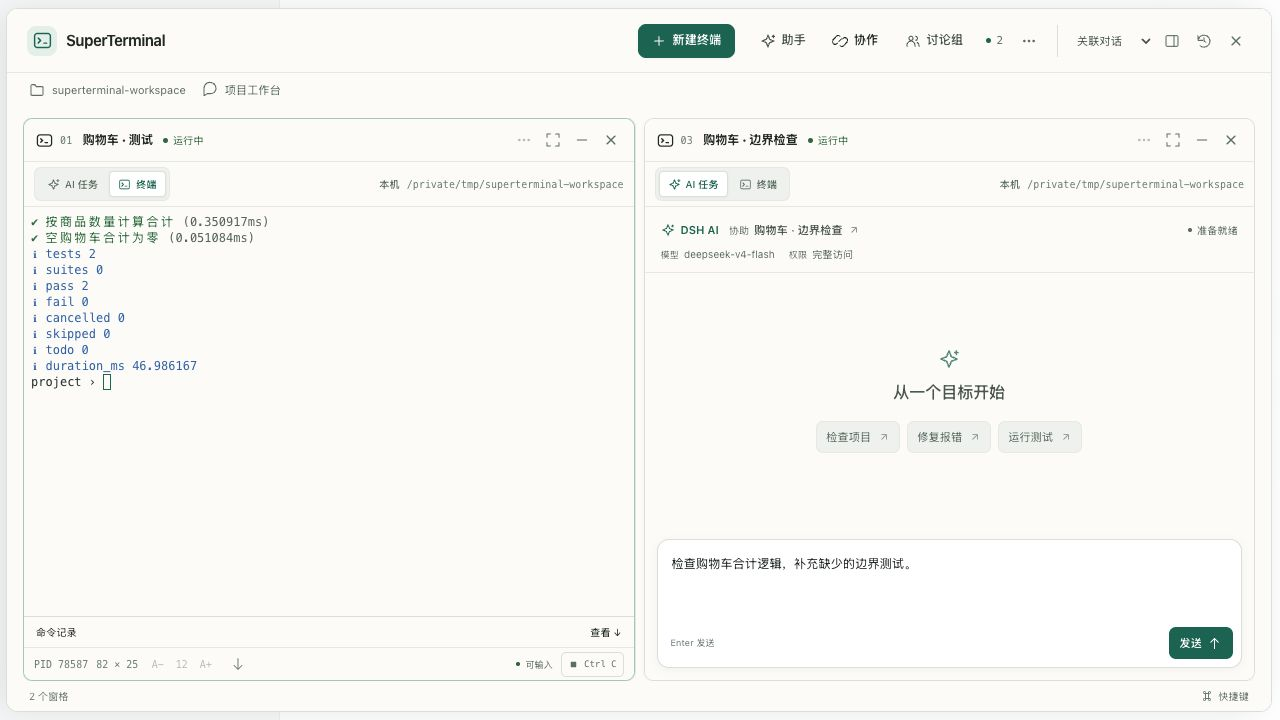
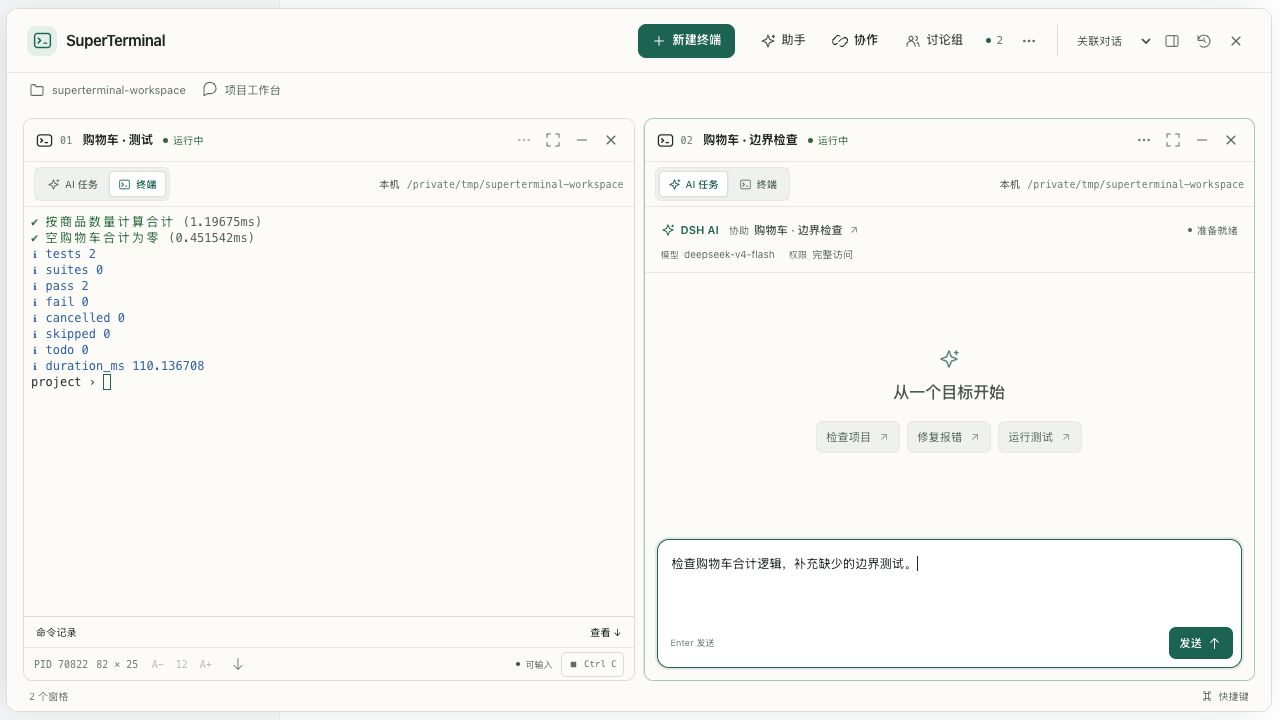
Publish alpha.15 guide and current product screenshots

Changed region(s): [[0.5, 0.7333, 0.9688, 0.9472], [0.1562, 0.3056, 0.2188, 0.3361], [0.0938, 0.4889, 0.1562, 0.5194]]

diff --git a/site/index.html b/site/index.html
@@ -36,7 +36,7 @@
   <main id="main">
     <section class="hero section-shell" aria-labelledby="hero-title">
       <div class="hero-copy">
-        <a class="release-pill" href="https://github.com/Harzva/dsh-superterminal/releases/tag/v0.1.0-alpha.14"><span class="release-dot" aria-hidden="true"></span><span>alpha.14</span><span class="pill-divider"></span><span data-en="Clearer controls. More room for your task.">常用操作，就在手边</span><span aria-hidden="true">↗</span></a>
+        <a class="release-pill" href="https://github.com/Harzva/dsh-superterminal/releases/tag/v0.1.0-alpha.15"><span class="release-dot" aria-hidden="true"></span><span>alpha.15</span><span class="pill-divider"></span><span data-en="Switch terminals. Keep your place.">切换终端，接着工作</span><span aria-hidden="true">↗</span></a>
         <h1 id="hero-title"><span data-en="Say it.">说出目标。</span><br><span class="hero-highlight" data-en="Get it done.">让终端去完成。</span></h1>
         <p class="hero-description" data-en="Your conversation on one side. Real work on the other. Ask DSH to read files, edit code, and run commands—right in your terminal.">一边对话，一边把事情做完。用自然语言，让 DSH 读取文件、修改代码、执行命令。</p>
         <div class="hero-actions"><a class="button button-dark" href="#install"><span data-en="Get SuperTerminal">开始使用</span><span aria-hidden="true">↗</span></a><a class="button button-plain" href="https://github.com/Harzva/dsh-superterminal">GitHub <span aria-hidden="true">↗</span></a></div>
@@ -52,16 +52,16 @@
           <button type="button" role="tab" id="tour-tab-agents" data-tour="agents" aria-controls="tour-panel-agents" aria-selected="false" tabindex="-1"><span data-en="Agents">智能体目录</span></button>
         </div>
         <div class="tour-panel" role="tabpanel" id="tour-panel-workspace" data-tour-panel aria-labelledby="tour-tab-workspace" tabindex="0">
-          <figure class="product-figure hero-figure"><button class="screenshot-button" type="button" data-screenshot aria-label="查看自由分屏完整截图" data-aria-en="View the full workspace screenshot"><img src="./assets/screenshots/light-workspace.jpg" width="1280" height="720" alt="DSH SuperTerminal alpha.14 浅色工作台" data-alt-en="DSH SuperTerminal alpha.14 light workspace" fetchpriority="high"><span class="image-expand" aria-hidden="true">⤢</span></button><figcaption><strong data-en="One toolbar. Your task in focus.">常用操作集中，当前任务清楚。</strong><span data-en="alpha.14 · Focused workspace">alpha.14 · 精简工作台</span></figcaption></figure>
+          <figure class="product-figure hero-figure"><button class="screenshot-button" type="button" data-screenshot aria-label="查看自由分屏完整截图" data-aria-en="View the full workspace screenshot"><img src="./assets/screenshots/light-workspace.jpg" width="1280" height="720" alt="DSH SuperTerminal alpha.15 浅色工作台" data-alt-en="DSH SuperTerminal alpha.15 light workspace" fetchpriority="high"><span class="image-expand" aria-hidden="true">⤢</span></button><figcaption><strong data-en="Switch tasks without losing your place.">切换任务，保留当前进度。</strong><span data-en="alpha.15 · Focused workspace">alpha.15 · 精简工作台</span></figcaption></figure>
         </div>
         <div class="tour-panel" role="tabpanel" id="tour-panel-ai" data-tour-panel aria-labelledby="tour-tab-ai" tabindex="0" hidden>
           <figure class="product-figure hero-figure"><button class="screenshot-button" type="button" data-screenshot aria-label="查看AI 任务完整截图" data-aria-en="View the full ai tasks screenshot"><img src="./assets/screenshots/ai-task.jpg" width="1280" height="1000" alt="alpha.8 真实 AI 任务：自然语言修复购物车并通过测试" data-alt-en="Actual alpha.8 AI task: a natural-language cart fix with passing tests" loading="lazy"><span class="image-expand" aria-hidden="true">⤢</span></button><figcaption><strong data-en="Start with your goal.">把任务说出来。</strong><span data-en="alpha.8 · Actual AI task">alpha.8 · 真实 AI 任务</span></figcaption></figure>
         </div>
         <div class="tour-panel" role="tabpanel" id="tour-panel-side" data-tour-panel aria-labelledby="tour-tab-side" tabindex="0" hidden>
-          <figure class="product-figure hero-figure"><button class="screenshot-button" type="button" data-screenshot aria-label="查看Side Terminal完整截图" data-aria-en="View the full side terminal screenshot"><img src="./assets/screenshots/light-side-terminal.jpg" width="1280" height="720" alt="DSH SuperTerminal alpha.14 浅色 Side Terminal" data-alt-en="DSH SuperTerminal alpha.14 light Side Terminal" loading="lazy"><span class="image-expand" aria-hidden="true">⤢</span></button><figcaption><strong data-en="Right beside your conversation.">和当前对话，刚好并肩。</strong><span data-en="alpha.14 · Light Side Terminal">alpha.14 · 浅色 Side Terminal</span></figcaption></figure>
+          <figure class="product-figure hero-figure"><button class="screenshot-button" type="button" data-screenshot aria-label="查看Side Terminal完整截图" data-aria-en="View the full side terminal screenshot"><img src="./assets/screenshots/light-side-terminal.jpg" width="1280" height="720" alt="DSH SuperTerminal alpha.15 浅色 Side Terminal" data-alt-en="DSH SuperTerminal alpha.15 light Side Terminal" loading="lazy"><span class="image-expand" aria-hidden="true">⤢</span></button><figcaption><strong data-en="Right beside your conversation.">和当前对话，刚好并肩。</strong><span data-en="alpha.15 · Light Side Terminal">alpha.15 · 浅色 Side Terminal</span></figcaption></figure>
         </div>
         <div class="tour-panel" role="tabpanel" id="tour-panel-agents" data-tour-panel aria-labelledby="tour-tab-agents" tabindex="0" hidden>
-          <figure class="product-figure hero-figure"><button class="screenshot-button" type="button" data-screenshot aria-label="查看智能体目录完整截图" data-aria-en="View the full agents screenshot"><img src="./assets/screenshots/agents.jpg" width="1280" height="1000" alt="alpha.8 实际智能体目录：本机 CLI、版本与使用状态" data-alt-en="Actual alpha.8 agent library: local CLIs, versions and readiness evidence" loading="lazy"><span class="image-expand" aria-hidden="true">⤢</span></button><figcaption><strong data-en="Your familiar agents, within reach.">熟悉的搭档，随时就位。</strong><span data-en="alpha.8 · Actual agent library">alpha.8 · 实际智能体目录</span></figcaption></figure>
+          <figure class="product-figure hero-figure"><button class="screenshot-button" type="button" data-screenshot aria-label="查看智能体目录完整截图" data-aria-en="View the full agents screenshot"><img src="./assets/screenshots/agents.jpg" width="1280" height="720" alt="alpha.15 实际智能体目录：本机 CLI、版本与使用状态" data-alt-en="Actual alpha.15 agent library: local CLIs, versions and readiness evidence" loading="lazy"><span class="image-expand" aria-hidden="true">⤢</span></button><figcaption><strong data-en="Your familiar agents, within reach.">熟悉的搭档，随时就位。</strong><span data-en="alpha.15 · Actual agent library">alpha.15 · 实际智能体目录</span></figcaption></figure>
         </div>
         <button class="tour-footnote" type="button" data-open-active-screenshot><span data-en="Version shown in each caption · Click to inspect · ← → to browse">版本见图注 · 点击查看细节 · ← → 切换</span><span aria-hidden="true">↗</span></button>
       </div>
@@ -101,8 +101,8 @@
 
     <section class="side-section" aria-labelledby="side-title">
       <div class="section-shell side-grid">
-        <div class="feature-copy"><p class="eyebrow">SIDE TERMINAL</p><h2 id="side-title"><span data-en="Right beside">就在对话旁。</span><br><span data-en="your conversation.">刚好接得上。</span></h2><p data-en="Keep a terminal in DSH’s right sidebar. Bind it to the conversation you are working on, or keep an independent workspace open as you move between conversations.">把终端放在 DSH 右侧栏。可以关联当前对话，也可以独立运行，切换对话时继续保留自己的工作区。</p><ul class="quiet-list"><li data-en="Bound to a conversation, or independent">关联对话，或独立工作</li><li data-en="Expand when you need more room">需要空间时，展开工作区</li><li data-en="Keep each terminal’s context and draft together">上下文与草稿，跟随各自终端</li></ul><a class="text-link" href="#install"><span data-en="Make room for your next task">为下一件事，留个位置</span><span aria-hidden="true">↗</span></a></div>
-        <figure class="product-figure side-figure"><button class="screenshot-button" type="button" data-screenshot aria-label="放大 Side Terminal 截图" data-aria-en="Enlarge the Side Terminal screenshot"><img src="./assets/screenshots/light-side-terminal.jpg" width="1280" height="720" loading="lazy" alt="alpha.14 浅色 Side Terminal，与当前对话并肩" data-alt-en="alpha.14 light Side Terminal, beside the current conversation"><span class="image-expand" aria-hidden="true">⤢</span></button><figcaption><span data-en="Your conversation and your work, together.">让对话和工作，待在一起。</span><span class="caption-id">alpha.14 / SIDE TERMINAL</span></figcaption></figure>
+        <div class="feature-copy"><p class="eyebrow">SIDE TERMINAL</p><h2 id="side-title"><span data-en="Right beside">就在对话旁。</span><br><span data-en="your conversation.">刚好接得上。</span></h2><p data-en="Keep a terminal in DSH’s right sidebar. Bind it to the conversation you are working on, or keep an independent workspace open as you move between conversations.">把终端放在 DSH 右侧栏。可以关联当前对话，也可以独立运行，切换对话时继续保留自己的工作区。</p><ul class="quiet-list"><li data-en="Bound to a conversation, or independent">关联对话，或独立工作</li><li data-en="Switch terminals while staying expanded">放大查看，也能直接切换终端</li><li data-en="Keep each terminal’s context and draft together">上下文与草稿，跟随各自终端</li></ul><a class="text-link" href="#install"><span data-en="Make room for your next task">为下一件事，留个位置</span><span aria-hidden="true">↗</span></a></div>
+        <figure class="product-figure side-figure"><button class="screenshot-button" type="button" data-screenshot aria-label="放大 Side Terminal 截图" data-aria-en="Enlarge the Side Terminal screenshot"><img src="./assets/screenshots/light-side-terminal.jpg" width="1280" height="720" loading="lazy" alt="alpha.15 浅色 Side Terminal，与当前对话并肩" data-alt-en="alpha.15 light Side Terminal, beside the current conversation"><span class="image-expand" aria-hidden="true">⤢</span></button><figcaption><span data-en="Your conversation and your work, together.">让对话和工作，待在一起。</span><span class="caption-id">alpha.15 / SIDE TERMINAL</span></figcaption></figure>
       </div>
     </section>
 
@@ -113,17 +113,17 @@
     </section>
 
     <section class="agents-section section-shell" aria-labelledby="agents-title">
-      <figure class="product-figure agents-figure"><button class="screenshot-button" type="button" data-screenshot aria-label="放大智能体管理界面截图" data-aria-en="Enlarge the agent library screenshot"><img src="./assets/screenshots/agents.jpg" width="1280" height="1000" loading="lazy" alt="alpha.8 本地智能体 CLI 目录、版本与可用性信息" data-alt-en="The alpha.8 local agent CLI library, versions, and readiness information"><span class="image-expand" aria-hidden="true">⤢</span></button><figcaption><span data-en="A place for the agents you use.">你常用的智能体，也有自己的位置。</span><span class="caption-id">alpha.8 / AGENTS</span></figcaption></figure>
-      <div class="feature-copy"><p class="eyebrow" data-en="FAMILIAR AGENTS. ONE WORKSPACE.">熟悉的智能体，同一个工作区。</p><h2 id="agents-title"><span data-en="Everyone has">各用所长。</span><br><span data-en="a place here.">配合得刚刚好。</span></h2><p data-en="Find your installed agent CLIs, inspect their versions and available readiness evidence, and open them where you work.">查看本地已安装的智能体 CLI、版本与可获取的可用性信息，直接在工作区里打开。</p><div class="agent-names" aria-label="智能体示例" data-aria-en="Example agents"><span>Codex</span><span>Claude Code</span><span>Kimi Code</span><span>Pi</span></div><p class="fine-print" data-en="Each CLI uses its own account and model setup. Managed background handoffs currently support Pi and Codex; quota is shown as unknown when it cannot be verified.">各 CLI 使用自己的账号与模型配置。目前受管后台交接支持 Pi、Codex；无法核实的额度会显示为未知。</p></div>
+      <figure class="product-figure agents-figure"><button class="screenshot-button" type="button" data-screenshot aria-label="放大智能体管理界面截图" data-aria-en="Enlarge the agent library screenshot"><img src="./assets/screenshots/agents.jpg" width="1280" height="720" loading="lazy" alt="alpha.15 本地智能体 CLI 目录、版本与可用性信息" data-alt-en="The alpha.15 local agent CLI library, versions, and readiness information"><span class="image-expand" aria-hidden="true">⤢</span></button><figcaption><span data-en="A place for the agents you use.">你常用的智能体，也有自己的位置。</span><span class="caption-id">alpha.15 / AGENTS</span></figcaption></figure>
+      <div class="feature-copy"><p class="eyebrow" data-en="FAMILIAR AGENTS. ONE WORKSPACE.">熟悉的智能体，同一个工作区。</p><h2 id="agents-title"><span data-en="Everyone has">各用所长。</span><br><span data-en="a place here.">配合得刚刚好。</span></h2><p data-en="Filter installed agent CLIs, search by name or command, and inspect versions and readiness evidence. If detection fails, keep the last results and check time, then retry before launching.">筛选已安装的智能体 CLI，按名称或命令搜索，查看版本与状态依据。检测失败时保留上次结果和检查时间，重试成功后再启动。</p><div class="agent-names" aria-label="智能体示例" data-aria-en="Example agents"><span>Codex</span><span>Claude Code</span><span>Kimi Code</span><span>Pi</span></div><p class="fine-print" data-en="Each CLI uses its own account and model setup. Managed background handoffs currently support Pi and Codex; quota is shown as unknown when it cannot be verified.">各 CLI 使用自己的账号与模型配置。目前受管后台交接支持 Pi、Codex；无法核实的额度会显示为未知。</p></div>
     </section>
 
     <section class="install-section section-shell" id="install" aria-labelledby="install-title">
       <div class="install-card"><div class="install-heading"><div><p class="eyebrow" data-en="READY WHEN YOU ARE.">下一件事，从这里开始。</p><h2 id="install-title"><span data-en="A smarter place">给你的 DSH，</span><br><span data-en="to get things done.">一只会干活的终端。</span></h2></div><img class="install-cat" src="./assets/logo.svg" width="128" height="128" alt="Mimi，SuperTerminal 的薄荷绿终端小猫" data-alt-en="Mimi, SuperTerminal’s mint-green terminal cat"></div>
-        <div class="install-requirements"><span>macOS</span><span>Node.js 24+</span><span>DSH 0.1.1-rc.2</span><span>0.1.0-alpha.14</span></div>
-        <div class="install-command"><div class="command-toolbar"><span data-en="Run in your terminal">在终端中运行</span><button id="copy-install" type="button"><span aria-hidden="true">⧉</span><span data-en="Copy command">复制命令</span></button></div><pre tabindex="0" aria-label="安装命令" data-aria-en="Installation command"><code id="install-code">dsh plugin --profile web add https://github.com/Harzva/dsh-superterminal/releases/download/v0.1.0-alpha.14/harzva-dsh-terminal-0.1.0-alpha.14.tgz</code></pre></div>
+        <div class="install-requirements"><span>macOS</span><span>Node.js 24+</span><span>DSH 0.1.1-rc.2</span><span>0.1.0-alpha.15</span></div>
+        <div class="install-command"><div class="command-toolbar"><span data-en="Run in your terminal">在终端中运行</span><button id="copy-install" type="button"><span aria-hidden="true">⧉</span><span data-en="Copy command">复制命令</span></button></div><pre tabindex="0" aria-label="安装命令" data-aria-en="Installation command"><code id="install-code">dsh plugin --profile web add https://github.com/Harzva/dsh-superterminal/releases/download/v0.1.0-alpha.15/harzva-dsh-terminal-0.1.0-alpha.15.tgz</code></pre></div>
         <p id="copy-feedback" class="copy-feedback" role="status" aria-live="polite"></p>
         <p class="install-note" data-en="After installation, restart the DSH profile you installed into (web for this command). Use the Terminal button in the input bar or enter /terminal to open the right sidebar. Configure a working DSH model before running AI tasks.">安装完成后，重启所选 DSH 配置（此命令为 web）。点击输入栏中的“终端”，或输入 /terminal 打开右侧栏。执行 AI 任务前，请先配置可用的 DSH 模型。</p>
-        <div class="install-links"><a href="https://github.com/Harzva/dsh-superterminal/blob/main/docs/guide.zh-CN.md"><span data-en="Read the guide">阅读使用指南</span><span aria-hidden="true">↗</span></a><a href="https://github.com/Harzva/dsh-superterminal/releases/tag/v0.1.0-alpha.14"><span data-en="Release notes">版本更新</span><span aria-hidden="true">↗</span></a></div>
+        <div class="install-links"><a href="https://github.com/Harzva/dsh-superterminal/blob/main/docs/guide.zh-CN.md"><span data-en="Read the guide">阅读使用指南</span><span aria-hidden="true">↗</span></a><a href="https://github.com/Harzva/dsh-superterminal/releases/tag/v0.1.0-alpha.15"><span data-en="Release notes">版本更新</span><span aria-hidden="true">↗</span></a></div>
       </div>
     </section>
 
@@ -132,7 +132,7 @@
       <details><summary><span data-en="Can Side Terminal work independently?">Side Terminal 可以独立于对话吗？</span><span aria-hidden="true">+</span></summary><p data-en="Yes. Bind it to a conversation, or use an independent workspace session that stays in place when you switch conversations. Existing terminals are not migrated between these two scopes.">可以。你可以关联当前对话，也可以使用独立工作区会话，在切换对话时继续保留。两种范围中的已有终端分别归属各自会话。</p></details>
       <details><summary><span data-en="Does every agent support background handoffs?">所有智能体都支持后台任务交接吗？</span><span aria-hidden="true">+</span></summary><p data-en="Installed CLIs can run in native terminal panes. Managed background handoffs currently support the Pi and Codex protocols, with result review and linked rework. Launching a CLI and managing a background task are separate capabilities.">已安装的 CLI 可以在原生终端窗格中运行。目前受管后台交接支持 Pi 与 Codex 协议，可验收结果并关联返工。打开 CLI 与管理后台任务是两项独立能力。</p></details>
       <details><summary><span data-en="Will a group share all my terminal history?">加入讨论组，会分享所有终端历史吗？</span><span aria-hidden="true">+</span></summary><p data-en="Joining a group does not broadcast old terminal logs. You choose which text to attach before sending. Each terminal’s DSH AI retains its own conversation context; only its new reply is added to the group. Stop a discussion to keep completed replies, and start a new request explicitly when ready. Interrupted discussions are not automatically rerun after a restart.">加入组不会自动广播旧终端日志，你可以在发送前选择并预览附上的内容。各终端 DSH AI 保留自己的会话上下文，只把本次回复加入组内讨论。停止后保留已完成的发言；重启后中断的讨论不会自动重跑，需要你明确发起下一次问题。</p></details>
-      <details><summary><span data-en="Which platforms are supported?">目前支持哪些环境？</span><span aria-hidden="true">+</span></summary><p data-en="Alpha.14 supports macOS with Node.js 24+ and official DSH 0.1.1-rc.2. SSH terminals require an existing noninteractive SSH connection and remote tmux. Alpha.13 verified connections, resize, reconnect and task cleanup on macOS and Linux remote hosts; alpha.14 retains that execution behavior. Remote model execution and quota were not part of those checks; recovery across DSH restarts is not guaranteed. Remote Agent CLIs are supported; native DSH AI execution and Groups remain local. Windows and other DSH versions are not currently supported.">alpha.14 支持 macOS、Node.js 24+ 与官方 DSH 0.1.1-rc.2。SSH 远程终端需要已有的免交互连接与远端 tmux。alpha.13 已在 macOS 和 Linux 远端验证连接、尺寸调整、断线重连与任务清理，alpha.14 沿用这项能力。远端模型执行和额度不在该次验收范围内；当前不保证跨 DSH 重启续接。可运行远端 Agent CLI，DSH AI 执行与讨论组仍限本机。当前暂不支持 Windows 或其他 DSH 版本。</p></details>
+      <details><summary><span data-en="Which platforms are supported?">目前支持哪些环境？</span><span aria-hidden="true">+</span></summary><p data-en="Alpha.15 supports macOS with Node.js 24+ and official DSH 0.1.1-rc.2. SSH terminals require an existing noninteractive SSH connection and remote tmux. Alpha.13 verified connections, resize, reconnect and task cleanup on macOS and Linux remote hosts; alpha.15 retains that execution behavior. Remote model execution and quota were not part of those checks; recovery across DSH restarts is not guaranteed. Remote Agent CLIs are supported; native DSH AI execution and Groups remain local. Windows and other DSH versions are not currently supported.">alpha.15 支持 macOS、Node.js 24+ 与官方 DSH 0.1.1-rc.2。SSH 远程终端需要已有的免交互连接与远端 tmux。alpha.13 已在 macOS 和 Linux 远端验证连接、尺寸调整、断线重连与任务清理，alpha.15 沿用这项能力。远端模型执行和额度不在该次验收范围内；当前不保证跨 DSH 重启续接。可运行远端 Agent CLI，DSH AI 执行与讨论组仍限本机。当前暂不支持 Windows 或其他 DSH 版本。</p></details>
     </div></section>
   </main>
 

diff --git a/README.md b/README.md
@@ -16,16 +16,16 @@
   <a href="https://github.com/Harzva/dsh-superterminal/releases">更新记录</a>
 </p>
 
-![DSH SuperTerminal alpha.14 浅色工作台](https://raw.githubusercontent.com/Harzva/dsh-superterminal/main/site/assets/screenshots/light-workspace.jpg)
+![DSH SuperTerminal alpha.15 浅色工作台](https://raw.githubusercontent.com/Harzva/dsh-superterminal/main/site/assets/screenshots/light-workspace.jpg)
 
-**alpha.14 工作台。** 启动选项集中在当前空窗格，其余窗格显示“添加终端”，保留你安排好的分屏。通过 **更多 → 外观** 选择浅色、深色或跟随系统，切换时保留任务、输出和草稿。
+**alpha.15 工作台。** 侧栏与放大视图提供终端切换条，切换时保留任务与草稿，放大视图继续保持放大。通过 **更多 → 外观** 选择浅色、深色或跟随系统。
 
 ## 安装
 
-当前版本 **0.1.0-alpha.14**，将新建终端、助手、协作与讨论组集中在工具栏，项目与会话归属在下方一行显示。支持 **macOS · Node.js 24+ · 官方 DSH 0.1.1-rc.2**。
+当前版本 **0.1.0-alpha.15**，改善终端切换、分屏聚焦、智能体检测反馈和小窗格操作。支持 **macOS · Node.js 24+ · 官方 DSH 0.1.1-rc.2**。
 
 ```sh
-dsh plugin --profile web add https://github.com/Harzva/dsh-superterminal/releases/download/v0.1.0-alpha.14/harzva-dsh-terminal-0.1.0-alpha.14.tgz
+dsh plugin --profile web add https://github.com/Harzva/dsh-superterminal/releases/download/v0.1.0-alpha.15/harzva-dsh-terminal-0.1.0-alpha.15.tgz
 ```
 
 首次运行：
@@ -56,9 +56,9 @@ dsh plugin --profile web add https://github.com/Harzva/dsh-superterminal/release
 <details>
 <summary><strong>查看截图：对话旁的 Side Terminal</strong></summary>
 
-绑定当前对话，或留在独立工作台。窄侧栏通过 **更多** 打开解释建议、Agent 协作和讨论组；收起侧栏，任务继续。
+绑定当前对话，或留在独立工作台。通过切换条选择已有终端，保留各自草稿与进程；窄侧栏通过 **更多** 打开解释建议、Agent 协作和讨论组。收起侧栏，任务继续。
 
-![DSH SuperTerminal alpha.14 浅色 Side Terminal](https://raw.githubusercontent.com/Harzva/dsh-superterminal/main/site/assets/screenshots/light-side-terminal.jpg)
+![DSH SuperTerminal alpha.15 浅色 Side Terminal](https://raw.githubusercontent.com/Harzva/dsh-superterminal/main/site/assets/screenshots/light-side-terminal.jpg)
 
 </details>
 
@@ -70,7 +70,7 @@ dsh plugin --profile web add https://github.com/Harzva/dsh-superterminal/release
 
 **收起**保留任务；SSH 中断后点击 **重新连接** 接回原进程，不重新执行任务；**结束任务**会停止这个远端任务。远端 CLI 使用远端账号和模型配置，“已检测到”不代表登录、模型或额度已就绪。
 
-远端支持原生 Shell / Agent CLI 和显式选区的解释建议。DSH AI 执行、自动交接、Terminal Group 仍限本机；不会把远端目标交给本机文件工具。alpha.13 已在 macOS 和 Linux 远端实机验证连接、终端尺寸调整、断线重连与任务清理；alpha.14 沿用该执行实现。远端模型执行与额度未包含在该次验收中，跨 DSH 重启续接仍不提供保证。详见[远程终端指南](https://github.com/Harzva/dsh-superterminal/blob/main/docs/guide.zh-CN.md#连接远端终端)。
+远端支持原生 Shell / Agent CLI 和显式选区的解释建议。DSH AI 执行、自动交接、Terminal Group 仍限本机；不会把远端目标交给本机文件工具。alpha.13 已在 macOS 和 Linux 远端实机验证连接、终端尺寸调整、断线重连与任务清理；alpha.15 沿用该执行实现。远端模型执行与额度未包含在该次验收中，跨 DSH 重启续接仍不提供保证。详见[远程终端指南](https://github.com/Harzva/dsh-superterminal/blob/main/docs/guide.zh-CN.md#连接远端终端)。
 
 ## 让不同终端，一起讨论
 
@@ -93,15 +93,15 @@ dsh plugin --profile web add https://github.com/Harzva/dsh-superterminal/release
 
 ## 熟悉的智能体，在同一个工作台
 
-通过 **更多 → 智能体管理** 打开本机 Shell、Codex、Claude Code、Kimi Code、Pi 等工具，保留各自的原生界面。目录显示可识别的版本与使用状态。下图为 alpha.8 的实际目录；当前版本会随所选外观显示。
+通过 **更多 → 智能体管理** 打开本机 Shell、Codex、Claude Code、Kimi Code、Pi 等工具，保留各自的原生界面。通过“已安装／全部智能体”筛选，按名称或实际命令搜索，并查看可识别的版本与使用状态。下图为 alpha.15 的实际管理页。
 
-![alpha.8 实际界面：本机智能体目录与使用状态](https://raw.githubusercontent.com/Harzva/dsh-superterminal/main/site/assets/screenshots/agents.jpg)
+![alpha.15 实际界面：智能体筛选、命令搜索与状态依据](https://raw.githubusercontent.com/Harzva/dsh-superterminal/main/site/assets/screenshots/agents.jpg)
 
 需要搭档时，可把任务交给 **Pi / piagent 或 Codex** 在后台执行，收到结果后验收或要求返工。当前受管后台交接支持这两类 Agent；其他 CLI 可在原生终端中交互使用。
 
 Codex、Claude Code、Kimi 和 Pi 使用当前工作区的独立配置。即使你已在其他终端登录，在这里首次使用仍可能需要重新登录或配置模型。
 
-目录分别显示安装、登录和上次任务的模型连接证据；无法确认的状态显示「未知」。本机已安装不代表已有登录或可用额度，套餐与额度以各服务提供的信息为准。
+目录分别显示安装、登录和上次任务的模型连接证据；无法确认的状态显示「未知」。检测失败时保留上次结果与检查时间，恢复后才能启动；终端位置已满时也会说明原因。本机已安装不代表已有登录或可用额度，套餐与额度以各服务提供的信息为准。
 
 完整操作、恢复方式、协作范围与隐私说明见 **[中文使用指南](https://github.com/Harzva/dsh-superterminal/blob/main/docs/guide.zh-CN.md)**。
 

diff --git a/CHANGELOG.md b/CHANGELOG.md
@@ -1,5 +1,14 @@
 # 更新记录
 
+## 0.1.0-alpha.15
+
+- 在侧栏与放大视图提供终端切换条，切换已有终端时保留放大状态、各自草稿与运行进程。
+- 用键盘操作分屏后聚焦新窗格，继续选择启动方式；改善切换终端后的定位。
+- 精简智能体管理页，统一筛选与搜索；支持实际命令检索，并忽略首尾空格与大小写。
+- 区分检测中、检测失败和搜索无结果；失败时保留上次结果及成功检测时间，暂停启动并说明原因。
+- 改善小窗格菜单与结束确认的空间适配和键盘操作，保留清楚的取消入口。
+- 更新使用指南与产品展示；SSH 执行实现保持不变，远端实机验收仍引用 alpha.13 的历史结果。
+
 ## 0.1.0-alpha.14
 
 - 顶部收拢为工具栏与一行项目、会话归属，助手、协作与讨论组仍是独立入口；窄侧栏从“更多”进入。
